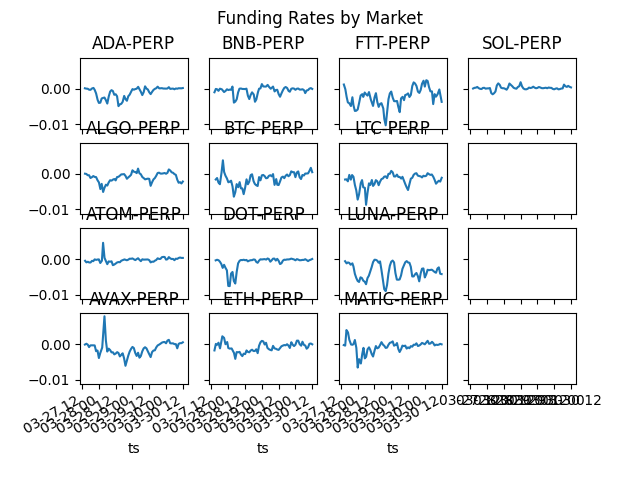
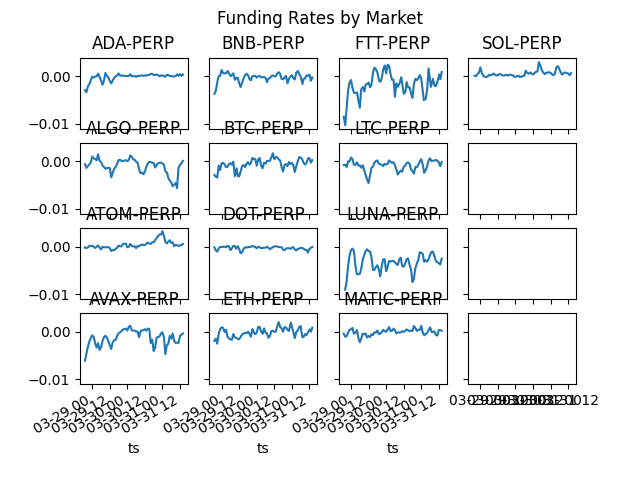
updates

diff --git a/drift/main.py b/drift/main.py
@@ -118,9 +118,9 @@ async def drift():
 
 async def indexing():
     startDate = int(time.mktime(
-        datetime.datetime(2022, 3, 1, hour=12).timetuple()))
+        datetime.datetime(2022, 3, 20).timetuple()))
     endDate = int(time.mktime(datetime.datetime(
-        2022, 3, 1, hour=20).timetuple()))
+        2022, 3, 21).timetuple()))
 
     orcaAccount = 'JU8kmKzDHF9sXWsnoznaFDFezLsE5uomX2JkRMbmsQP'
     generate_transaction_csv(startDate, endDate, orcaAccount, "orca")
@@ -155,20 +155,30 @@ def generate_transaction_csv(startDate, endDate, account, name):
                 break
             data.extend(rdata)
             params["offset"] += params["limit"]
+            if params["offset"] % 250 == 0:
+                print(f"recorded {params['offset']} tx's")
         else:
             print("unknown error")
             break
     data = list(map(lambda x: {
+                'address': x['address'],
                 'changeType': x['changeType'],
                 'changeAmount': x['changeAmount'],
                 'decimals': x['decimals'],
                 'symbol': x['symbol'],
-                'blockTime': x['blockTime']
+                'blockTime': x['blockTime'],
+                'tokenAddress': x['tokenAddress'],
+                '_id': x['_id']
                 }, data))
     df = pd.DataFrame.from_records(data)
     df.to_csv(f"{name}.csv")
     print(f"Finished recording {len(data)} tx's for {name}")
     print()
+
+
+def visualization():
+    orca_df = pd.read_csv('./orca.csv')
+    raydium_df = pd.read_csv('./raydium.csv')
 
 
 asyncio.run(drift())

diff --git a/README.md b/README.md
@@ -38,6 +38,13 @@ There have been multiple instances of bridges that have been used to help move a
   1. How was Arbi able to obtain such explosive adoption AND retain its userbase?
   1. NEAR lost 50% of its TVL for 24 hours on two occasions where other chain TVLs grew, why/how did this happen?
      1. What's the withdrawal process for the NEAR bridge look like?
+        1. Withdrawals are relatively fast taking at most 16 hours
+     1. How many people were involved?
+        1. 03/01 had 38 unique users, 03/02 had 75 unique users
+     1. What could've caused it?
+        1. Searching google for headlines around these dates showed that the Russian-Ukraine conflict was announced on this day! :facepalm:
+     1. Why only NEAR? Arbi and AVA went up between March 1st and 2nd...
+        1. Compared to the other protocols, NEAR has an very high Whale TX to Unique Daily User ratio (TM). High percentage of whales -> high percentage of actively-managed positions -> more responsive to current events -> high volatility
 
 ### 3. If you were to move assets from one ecosystem to another, which kind of bridge solution/design would you use? There is some ambiguity in this question, but feel free to expound on your thoughts
 
@@ -232,6 +239,8 @@ Drift Protocol is building out a dynamic vAMM to help facilitate trading of perp
 
 No examples, just a barebones api reference :'(
 
+Put in a PR to add some [HERE](https://github.com/drift-labs/driftpy/pull/10)
+
 Luckily theres some docs for the Typescript sdk although the two sdk's are a bit different
 
 - One limit is the fact that only 1024 items are returned with no opportunity for pagination. This means users are expected to index their own data if they want historical access
@@ -263,6 +272,8 @@ Luckily theres some docs for the Typescript sdk although the two sdk's are a bit
 #### Funding Rates by Market
 
 ![Funding Rates By Market](./images/funding_rates_by_market.png)
+
+Matplotlib was giving me a tough time with this one, apologies for the poor formatting
 
 ### 3. Any thoughts on how to expose this data - especially if you’d like to expose this to data analysts and create a data pipeline? What kind of setup would you have in mind for such a usecase?
 
